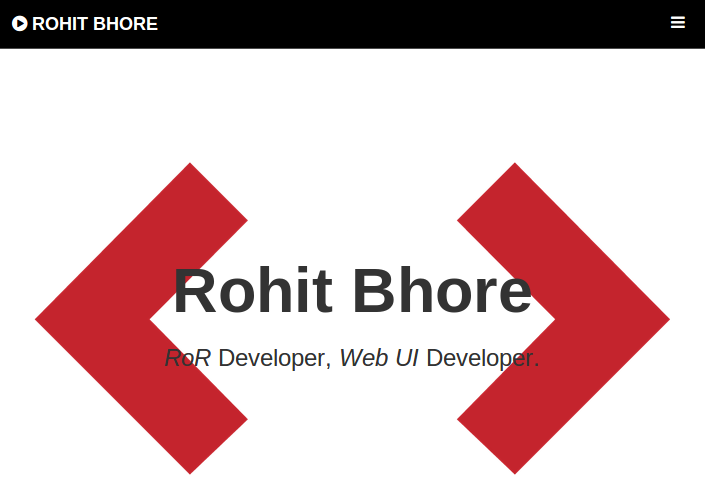
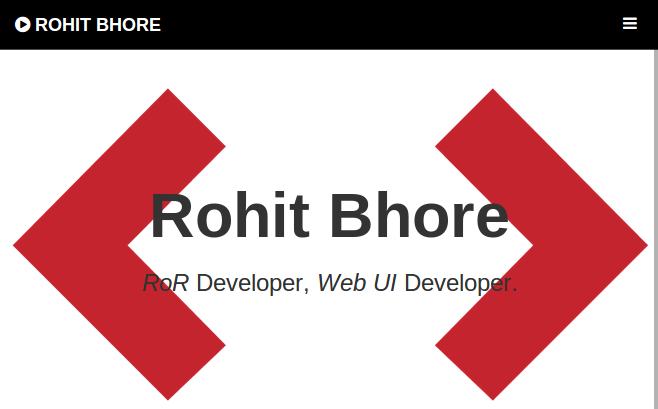
add mywork and exerience section

diff --git a/public/index.html b/public/index.html
@@ -103,21 +103,21 @@
 
       <table>
          <tr>
-          <td class="width_30">Contact No</td>
+          <td class="width_30">Call me on</td>
           <td>: 09766140085</td>
         </tr>
         <tr>
-          <td>Email Id</td>
-          <td>: rohitpbhore@gmail.com</td>
+          <td style="width: 40%;">Email Id</td><br/>
+          <td>: hello@rohitpbhore.com</td>
         </tr>
-        <tr>
+       <!--  <tr>
           <td>Current Address </td>
           <td>: Ashtavinayak Housing Society,Building no. 3, Room no 728, Near Hallmark plaza,Bandra E, Mumbai- 400051</td>
-        </tr>
+        </tr> -->
       </table>
 
       <br/>
-      <p>1 year 3 months of experience in UI  Development, Enhancement & Maintenance on Ruby on Rails. Experience In Cloud Computing,  Agile Methodology and SDLC, usags of Project Management Tools.</p>
+    <!--   <p>1 year 3 months of experience in UI  Development, Enhancement & Maintenance on Ruby on Rails. Experience In Cloud Computing,  Agile Methodology and SDLC, usags of Project Management Tools.</p> -->
 
 
       <h3>TECHNICAL EXPERTISE</h3>
@@ -169,13 +169,13 @@
         <li>Year 2004-05: SSC(Pune Board)</li>
       </ul><br/>
 
-      <p>Designed and developed following websites by using technologies Wordpress, HTML, CSS3, JQuery and Wodpress.</p>
+    <!--   <p>Designed and developed following websites by using technologies Wordpress, HTML, CSS3, JQuery and Wodpress.</p>
       <ul>
         <li>The Barefoot Fest<br/>http://www.thebarefootfest.com</li>
         <li>People for Brands<br/>https://www.pfb.co.in/</li>
         <li>The Loft Asia<br/>https://www.theloftasia.com/</li>
         <li>BecomRails 4e Shakespeare<br/>https://www.becomeshakespeare.com</li>
-      </ul>
+      </ul> -->
     </div>
   </div>
 </div>
@@ -276,7 +276,7 @@
   <div id="my_work">
     <div class="my_work_cointainers">
       <div class="img_container">
-        <a href="www.rohitblog.herokuapp.com" taRget="_blank" class="images"><img class="" src="img/blog.png" alt="blog_app" title="blog_app" /></a>
+        <a href="www.rohitblog.herokuapp.com" taRget="_blank" class="images"><img class="" src="img/blog.png" alt="blog_app" title="blog_app" style="height: 91%;" /></a>
         <div class="content">
           <p>Developed and deployed(on Heroku) sample blog application on Rails 4 and Twitter bootstrap framework, Rspec, Devise, Jquery Data table, Ajax and Simple form and Action Mailer.<br/>
             <a href="https://github.com/rohitpbhore/sample_blog_app">Github url</a>

diff --git a/public/css/stylish-portfolio.css b/public/css/stylish-portfolio.css
@@ -131,6 +131,9 @@ body {
   width: 100%;
 }*/
 
+#contact img{
+  width: 100%;
+}
 /* Services */
 
 .services {
@@ -225,7 +228,7 @@ img.google{
 #my_work img,#experience img
 {
   width: 100%;
-  height: 100%;
+  /*height: 100%;*/
 }
 #my_work .img_container, #experience .img_container
 {
@@ -248,7 +251,7 @@ img.google{
 #my_work .img_container .images, #experience .img_container .images
 {
   margin-bottom: 20px;
-  height: 360px;
+  height: 390px;
 }
 #my_work .img_container .content, #experience .img_container .content{
   float: left;
@@ -365,6 +368,27 @@ i.scroll:hover {
   .follow_me{
     margin-left: 12%;
   }
+
+  #my_work,#experience{
+    font-size: 15px;
+  }
+
+   #my_work .img_container .images, #experience .img_container .images
+  {
+    margin-bottom: 0px;
+    height: 190px;
+  }
+  .vert-text h1{
+    font-size: 2.5em;
+  }
+  h2{
+    font-size: 19px;
+  }
+
+  #contact .social{
+    height: 100px;
+    width: 100px;
+  }
 }
 
 @media (max-width: 468px) {
@@ -383,6 +407,13 @@ i.scroll:hover {
   #my_work,#experience{
     font-size: 14px;
   }
+
+  #my_work .img_container .images, #experience .img_container .images
+  {
+    margin-bottom: 0px;
+    height: 110px;
+  }
+
 
 }
 
